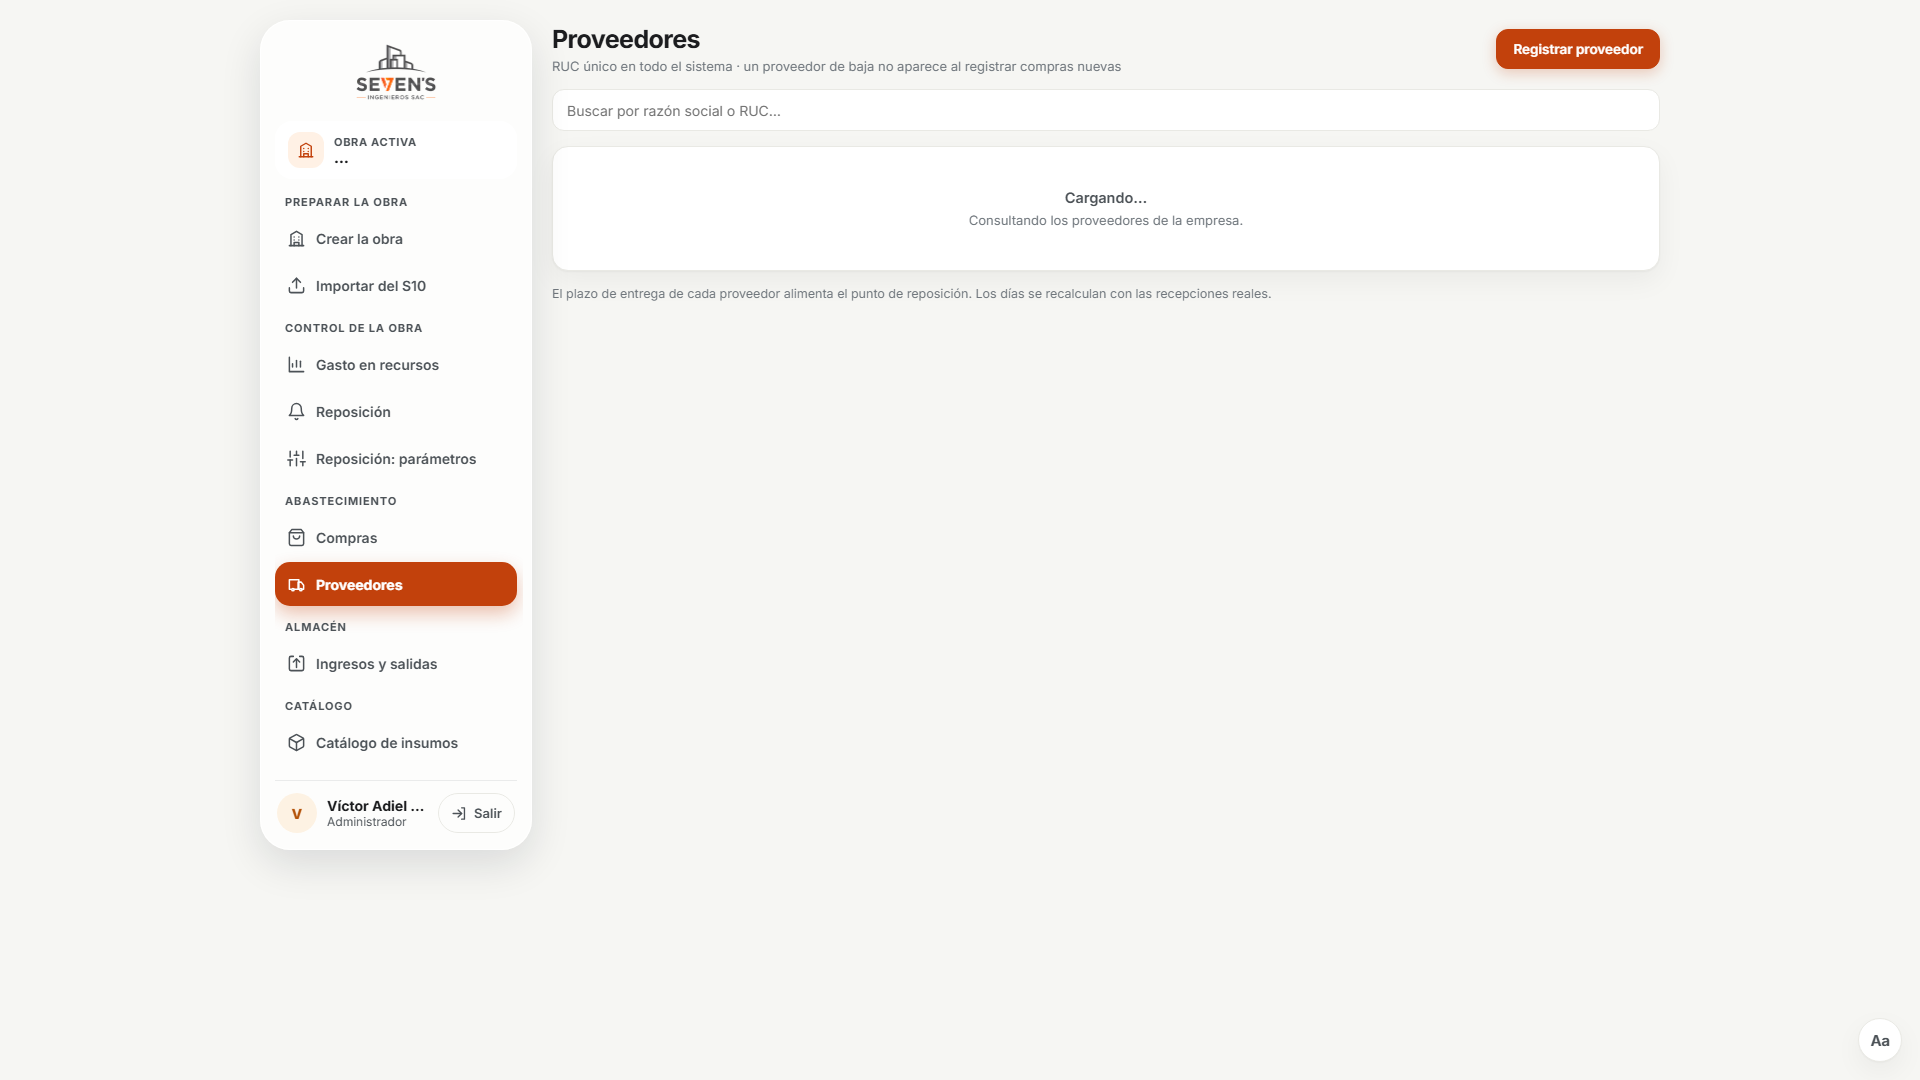
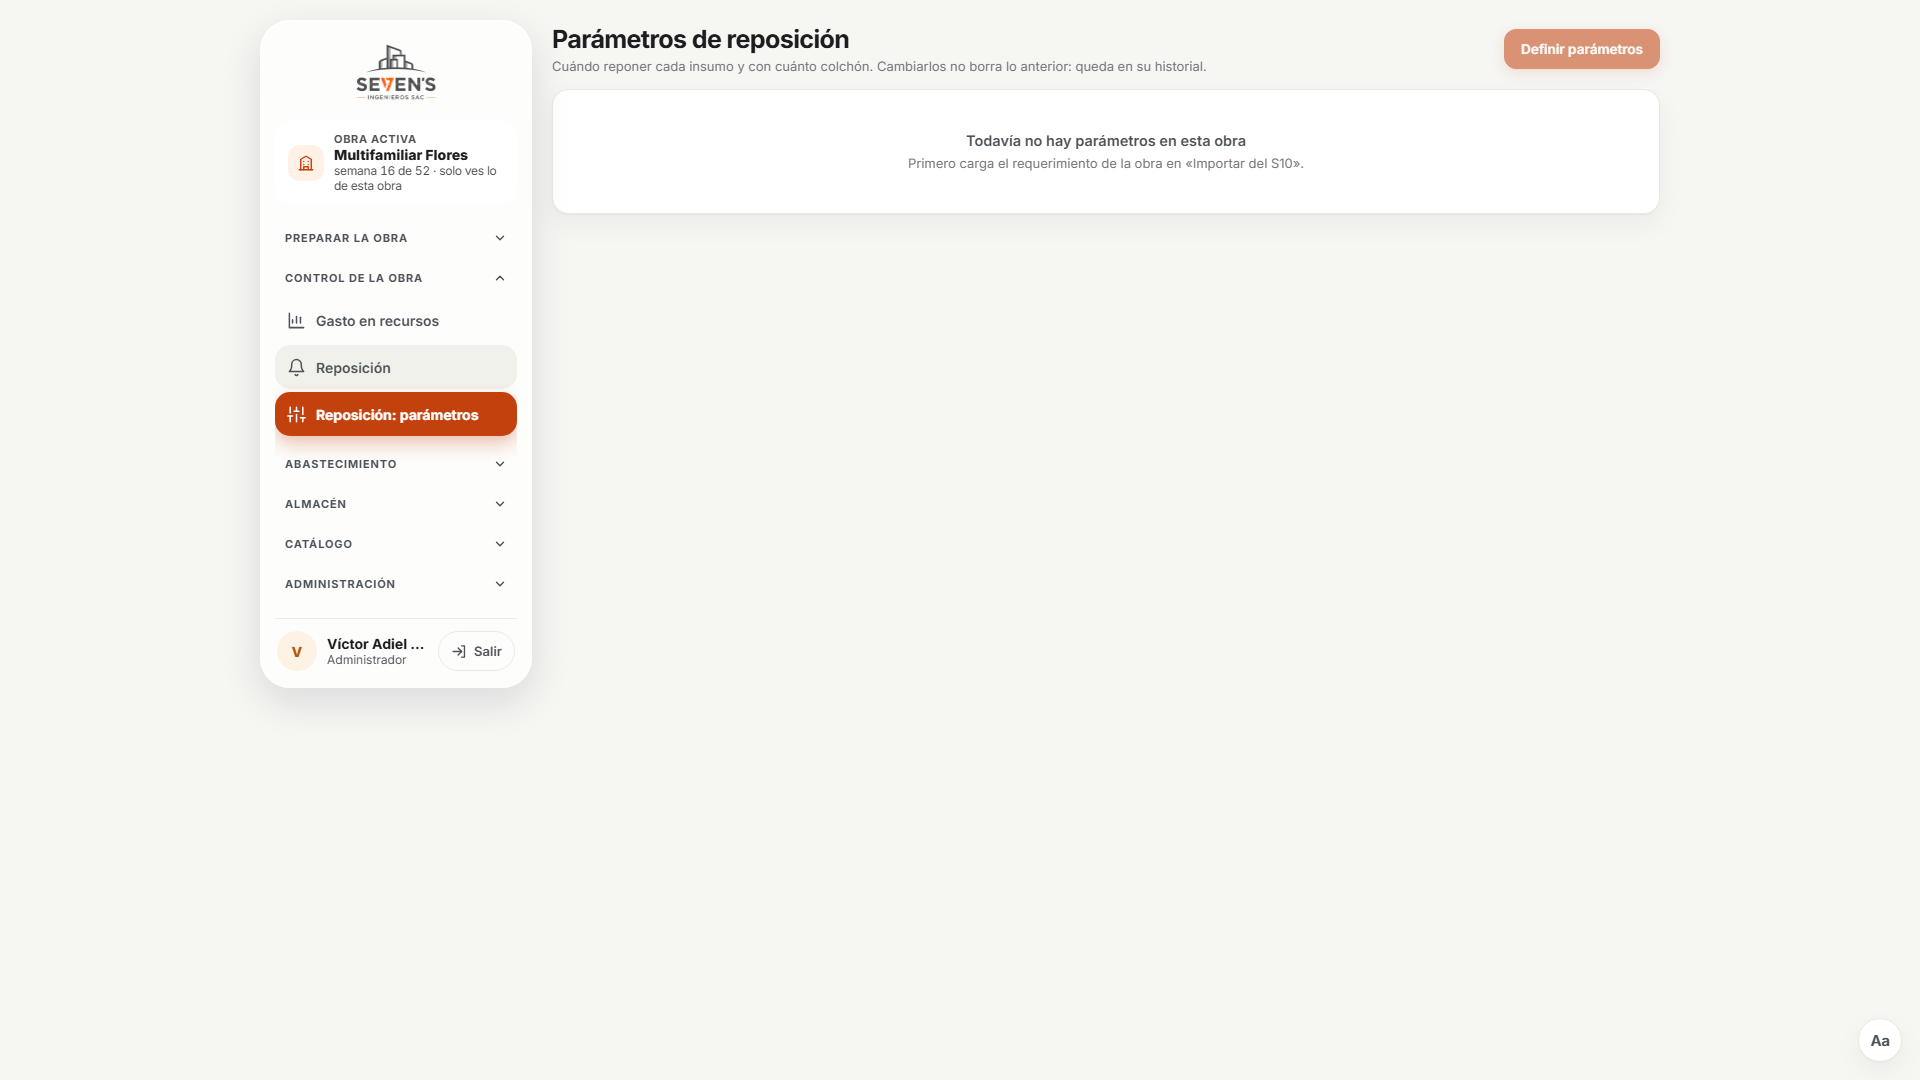
web: menú lateral en acordeón, sin scroll
Cada área («Preparar la obra», «Control de la obra», …) es un botón que se
expande al tocarlo (aria-expanded, aria-controls), una a la vez; al entrar está
abierta la de la pantalla actual y, al llegar a otra pantalla por un enlace o con
«atrás», se abre su área. Un punto marca el área de la pantalla actual si está
cerrada. Así el menú entra sin scroll.

En alto útil bajo (alto ÷ escala < 680 px, p. ej. 1366×768 a 125 %) el menú se
compacta (logo, márgenes y alto de ítems); src/escala.ts publica <html data-alto>.
En angosto (menú arriba) no hay acordeón: todas las opciones en la fila.

Medido con Playwright con cada área abierta: 0 px de scroll en 1366×768 y
1920×1080, a 100 % y 125 %, con 5 áreas y con las 6 del administrador y su pie.
36 pruebas (3 nuevas) y build en verde.

diff --git a/web/src/App.tsx b/web/src/App.tsx
@@ -1,6 +1,7 @@
 /* SIGRO · armazón de la web de oficina: menú lateral de vidrio (lienzo «SIGRO Oficina · Web»), obra activa y rutas. */
-import { Component, Suspense, lazy, useEffect, useRef, useState, type ReactNode } from 'react'
-import { HashRouter, NavLink, Navigate, Route, Routes } from 'react-router-dom'
+import { Component, Suspense, lazy, useEffect, useState, type ReactNode } from 'react'
+import { HashRouter, NavLink, Navigate, Route, Routes, useLocation } from 'react-router-dom'
+import { alternarGrupo, grupoDeRuta } from './menu'
 import { api } from './api/cliente'
 import { cerrarSesion, sesionActual, usaApiReal } from './api/http'
 import { Entrar } from './paginas/Entrar'
@@ -236,6 +237,51 @@ function PanelAccesibilidad() {
   )
 }
 
+/* Secciones del menú en acordeón: cada área es un botón que se abre al tocarlo, una a la vez, y al
+   entrar está abierta la de la pantalla actual. Así el menú cabe sin scroll (también a 125 %).
+   En angosto (menú arriba, en una fila) se ven todas las opciones y los botones de área no aparecen. */
+function MenuSecciones({ grupos }: { grupos: typeof GRUPOS }) {
+  const { pathname } = useLocation()
+  const actual = grupoDeRuta(grupos, pathname)
+  const [abierto, setAbierto] = useState<string | null>(actual)
+  // al llegar a una pantalla de otra área (por un enlace o con «atrás»), se abre esa área
+  useEffect(() => { if (actual) setAbierto(actual) }, [actual])
+
+  return (
+    <nav aria-label="Secciones" className="menu-grupos">
+      {grupos.map((g, i) => {
+        const abre = abierto === g.rotulo
+        const idLista = `menu-area-${i}`
+        return (
+          <div key={g.rotulo} className="menu-grupo" data-abierto={abre || undefined}>
+            <button
+              type="button"
+              className="menu-area"
+              aria-expanded={abre}
+              aria-controls={idLista}
+              onClick={() => setAbierto((x) => alternarGrupo(x, g.rotulo))}
+            >
+              <span className="menu-area-texto">{g.rotulo}</span>
+              {actual === g.rotulo && !abre && <span className="menu-area-punto" aria-label="(pantalla actual)" />}
+              <svg className="menu-area-flecha" width="14" height="14" viewBox="0 0 24 24" fill="none" stroke="currentColor" strokeWidth="2.4" strokeLinecap="round" strokeLinejoin="round" aria-hidden="true">
+                <path d="m6 9 6 6 6-6" />
+              </svg>
+            </button>
+            <div id={idLista} className="menu-area-lista" hidden={!abre}>
+              {g.items.map((s) => (
+                <NavLink key={s.ruta} to={s.ruta} className="menu-enlace" title={s.nombre}>
+                  <Icono d={ICONOS[s.icono]} tam={19} />
+                  <span className="menu-enlace-texto">{s.nombre}</span>
+                </NavLink>
+              ))}
+            </div>
+          </div>
+        )
+      })}
+    </nav>
+  )
+}
+
 /** HT-04: con la API real primero se entra; con el cliente simulado no hace falta */
 export default function App() {
   const [sesion, setSesion] = useState(() => sesionActual())
@@ -271,9 +317,6 @@ function Sistema() {
   const sesion = sesionActual()
   const rol = sesion?.obras.find((o) => String(o.id) === obra?.id)?.rol ?? sesion?.obras[0]?.rol
   const grupos = usaApiReal && esAdministrador(sesion, obra?.id) ? [...GRUPOS, GRUPO_ADMINISTRACION] : GRUPOS
-  // la lista de opciones arranca arriba (el navegador no debe dejarla desplazada al cargar)
-  const listaMenu = useRef<HTMLElement>(null)
-  useEffect(() => { listaMenu.current?.scrollTo({ top: 0 }) }, [])
 
   return (
     <HashRouter>
@@ -317,19 +360,7 @@ function Sistema() {
           </div>
           </div>
 
-          <nav aria-label="Secciones" className="menu-grupos" ref={listaMenu}>
-            {grupos.map((g) => (
-              <div key={g.rotulo} className="menu-grupo">
-                <span className="menu-grupo-rotulo">{g.rotulo}</span>
-                {g.items.map((s) => (
-                  <NavLink key={s.ruta} to={s.ruta} className="menu-enlace" title={s.nombre}>
-                    <Icono d={ICONOS[s.icono]} tam={19} />
-                    <span className="menu-enlace-texto">{s.nombre}</span>
-                  </NavLink>
-                ))}
-              </div>
-            ))}
-          </nav>
+          <MenuSecciones grupos={grupos} />
 
           {usaApiReal && sesion && (
             <div className="menu-pie">

diff --git a/web/src/tokens.css b/web/src/tokens.css
@@ -388,13 +388,32 @@ body { transition: background-color 0.25s ease-out, color 0.25s ease-out; }
 }
 .menu-cabecera { flex: none; display: flex; flex-direction: column; gap: 16px; }
 .menu-grupos {
-  display: flex; flex-direction: column; gap: 14px;
-  flex: 1 1 auto; min-height: 0; overflow-y: auto; overscroll-behavior: contain;
-  margin-right: -6px; padding-right: 6px; /* la barra delgada no tapa los ítems */
-  scrollbar-width: thin; scrollbar-color: var(--borde) transparent;
+  display: flex; flex-direction: column; gap: 4px;
+  /* acordeón: un área abierta a la vez, el menú entra sin scroll. El auto es solo una red de seguridad
+     para alturas que no se usan en obra (menos de ~600 px útiles); en 1366×768 a 125 % no aparece. */
+  flex: 1 1 auto; min-height: 0; overflow-y: auto; overscroll-behavior: contain; scrollbar-width: none;
 }
-.menu-grupos::-webkit-scrollbar { width: 6px; }
-.menu-grupos::-webkit-scrollbar-thumb { background: var(--borde); border-radius: 3px; }
+.menu-grupos::-webkit-scrollbar { display: none; }
+.menu-area {
+  width: 100%; min-height: 36px; padding: 0 10px; border: 0; border-radius: 12px; background: transparent;
+  display: flex; align-items: center; gap: 8px; cursor: pointer; font: inherit; text-align: left;
+  font-size: 11px; font-weight: 700; letter-spacing: 0.08em; text-transform: uppercase; color: var(--tinta-2);
+}
+.menu-area:hover { background: var(--vidrio-celda); color: var(--tinta); }
+.menu-area:focus-visible { outline: 2px solid var(--accion); outline-offset: 2px; }
+.menu-area-texto { flex: 1; min-width: 0; overflow: hidden; text-overflow: ellipsis; white-space: nowrap; }
+.menu-area-punto { flex: none; width: 7px; height: 7px; border-radius: 4px; background: var(--accion); }
+.menu-area-flecha { flex: none; transition: transform 0.18s ease-out; }
+.menu-grupo[data-abierto] .menu-area-flecha { transform: rotate(180deg); }
+.menu-area-lista { display: flex; flex-direction: column; gap: 3px; padding: 2px 0 6px; }
+.menu-area-lista[hidden] { display: none; }
+/* alto útil bajo (src/escala.ts: p. ej. 1366×768 a 125 %): el menú se compacta para entrar sin scroll */
+:root[data-alto='bajo'] .menu-lateral { padding-top: 14px; padding-bottom: 12px; gap: 10px; }
+:root[data-alto='bajo'] .menu-cabecera { gap: 10px; }
+:root[data-alto='bajo'] .menu-cabecera img { height: 44px !important; }
+:root[data-alto='bajo'] .menu-area { min-height: 30px; }
+:root[data-alto='bajo'] .menu-enlace { min-height: 36px; }
+:root[data-alto='bajo'] .menu-pie { padding-top: 10px; }
 .menu-pie {
   flex: none; border-top: 1px solid var(--separador); padding: 12px 2px 0;
   display: flex; align-items: center; gap: 10px;
@@ -406,11 +425,7 @@ body { transition: background-color 0.25s ease-out, color 0.25s ease-out; }
 }
 .menu-salir:hover { color: var(--tinta); background: var(--vidrio-celda); }
 .texto-corto { overflow: hidden; text-overflow: ellipsis; white-space: nowrap; }
-.menu-grupo { display: flex; flex-direction: column; gap: 3px; }
-.menu-grupo-rotulo {
-  padding: 0 10px 4px; font-size: 11px; font-weight: 700; letter-spacing: 0.08em;
-  text-transform: uppercase; color: var(--tinta-2);
-}
+.menu-grupo { display: flex; flex-direction: column; }
 .menu-enlace {
   flex: none; min-height: 44px; padding: 0 12px; border-radius: 15px; display: flex; align-items: center; gap: 10px;
   font-size: 14px; font-weight: 600; text-decoration: none; color: var(--tinta-2);
@@ -437,7 +452,10 @@ body { transition: background-color 0.25s ease-out, color 0.25s ease-out; }
 :root:not([data-ancho='amplio']) .menu-grupos::-webkit-scrollbar { height: 6px; }
 :root:not([data-ancho='amplio']) .menu-grupos::-webkit-scrollbar-thumb { background: var(--borde); border-radius: 3px; }
 :root:not([data-ancho='amplio']) .menu-grupo { flex-direction: row; }
-:root:not([data-ancho='amplio']) .menu-grupo-rotulo { display: none; }
+/* en angosto no hay acordeón: todas las opciones en la fila */
+:root:not([data-ancho='amplio']) .menu-area { display: none; }
+:root:not([data-ancho='amplio']) .menu-area-lista,
+:root:not([data-ancho='amplio']) .menu-area-lista[hidden] { display: flex; flex-direction: row; gap: 6px; padding: 0; }
 :root:not([data-ancho='amplio']) .menu-enlace { white-space: nowrap; }
 
 /* ── W1 · Entrar: la tarjeta oscura de la marca y el formulario de vidrio.

diff --git a/web/src/escala.ts b/web/src/escala.ts
@@ -18,6 +18,8 @@ export type Escala = (typeof ESCALAS)[number]
 
 export const CORTE_MEDIO = 900
 export const CORTE_CHICO = 760
+/** Alto útil por debajo del cual el menú lateral se compacta para entrar sin scroll (1366×768 a 125 % ≈ 574). */
+export const CORTE_BAJO = 680
 
 /** «125» → 1.25. Lo que no sea una escala conocida vale 1. */
 export function factor(escala: string | null | undefined): number {
@@ -32,6 +34,11 @@ export function anchoUtil(anchoVentana: number, escala: string | null | undefine
 export function tipoDeAncho(anchoVentana: number, escala: string | null | undefined): 'amplio' | 'medio' | 'chico' {
   const w = anchoUtil(anchoVentana, escala)
   return w <= CORTE_CHICO ? 'chico' : w <= CORTE_MEDIO ? 'medio' : 'amplio'
+}
+
+/** «bajo» si el alto útil (alto de la ventana ÷ escala) no alcanza para el menú con su tamaño normal. */
+export function tipoDeAlto(altoVentana: number, escala: string | null | undefined): 'normal' | 'bajo' {
+  return altoVentana / factor(escala) < CORTE_BAJO ? 'bajo' : 'normal'
 }
 
 /** La escala guardada en el dispositivo (o 100 si no hay o el navegador bloquea el almacenamiento). */
@@ -50,7 +57,10 @@ export function escalaGuardada(): Escala {
  */
 export function vigilarEscala(raiz: HTMLElement = document.documentElement) {
   if (!raiz.dataset.escala) raiz.dataset.escala = escalaGuardada()
-  const aplicar = () => { raiz.dataset.ancho = tipoDeAncho(window.innerWidth, raiz.dataset.escala) }
+  const aplicar = () => {
+    raiz.dataset.ancho = tipoDeAncho(window.innerWidth, raiz.dataset.escala)
+    raiz.dataset.alto = tipoDeAlto(window.innerHeight, raiz.dataset.escala)
+  }
   aplicar()
   window.addEventListener('resize', aplicar)
   new MutationObserver(aplicar).observe(raiz, { attributes: true, attributeFilter: ['data-escala'] })

diff --git a/web/src/menu.test.ts b/web/src/menu.test.ts
@@ -1,0 +1,33 @@
+/* Menú lateral en acordeón y modo compacto por alto útil. */
+import { describe, expect, it } from 'vitest'
+import { CORTE_BAJO, tipoDeAlto } from './escala'
+import { alternarGrupo, grupoDeRuta } from './menu'
+
+const grupos = [
+  { rotulo: 'Preparar la obra', items: [{ ruta: '/obra' }, { ruta: '/importar' }] },
+  { rotulo: 'Control de la obra', items: [{ ruta: '/tablero' }, { ruta: '/reposicion' }, { ruta: '/parametros' }] },
+  { rotulo: 'Administración', items: [{ ruta: '/administracion' }] },
+]
+
+describe('acordeón del menú', () => {
+  it('al entrar está abierta el área de la pantalla actual', () => {
+    expect(grupoDeRuta(grupos, '/parametros')).toBe('Control de la obra')
+    expect(grupoDeRuta(grupos, '/administracion/usuarios')).toBe('Administración') // subruta
+    expect(grupoDeRuta(grupos, '/reposicion-x')).toBeNull() // no confunde prefijos
+    expect(grupoDeRuta(grupos, '/')).toBeNull()
+  })
+  it('un área a la vez: abrir otra cierra la anterior; tocar la abierta la cierra', () => {
+    expect(alternarGrupo('Control de la obra', 'Preparar la obra')).toBe('Preparar la obra')
+    expect(alternarGrupo('Preparar la obra', 'Preparar la obra')).toBeNull()
+    expect(alternarGrupo(null, 'Administración')).toBe('Administración')
+  })
+})
+
+describe('alto útil', () => {
+  it('1366×768 a 125 % es bajo (el menú se compacta); a 100 % y en 1080 p no', () => {
+    expect(tipoDeAlto(768, '125')).toBe('bajo')   // 614 px útiles
+    expect(tipoDeAlto(768, '100')).toBe('normal') // 768
+    expect(tipoDeAlto(1080, '125')).toBe('normal') // 864
+    expect(tipoDeAlto(CORTE_BAJO - 1, '100')).toBe('bajo')
+  })
+})

diff --git a/web/src/menu.ts b/web/src/menu.ts
@@ -1,0 +1,15 @@
+/* SIGRO · menú lateral en acordeón: un área abierta a la vez, así el menú entra sin scroll
+   (también a 125 % y en 1366×768). Reglas puras, se prueban con Vitest. */
+
+export interface GrupoMenu { rotulo: string; items: { ruta: string }[] }
+
+/** El área que contiene la pantalla abierta (por la ruta), o null si ninguna. */
+export function grupoDeRuta(grupos: GrupoMenu[], ruta: string): string | null {
+  const g = grupos.find((x) => x.items.some((i) => ruta === i.ruta || ruta.startsWith(`${i.ruta}/`)))
+  return g?.rotulo ?? null
+}
+
+/** Clic en un área: si estaba abierta se cierra; si no, se abre y se cierra la que estaba. */
+export function alternarGrupo(abierto: string | null, rotulo: string): string | null {
+  return abierto === rotulo ? null : rotulo
+}
